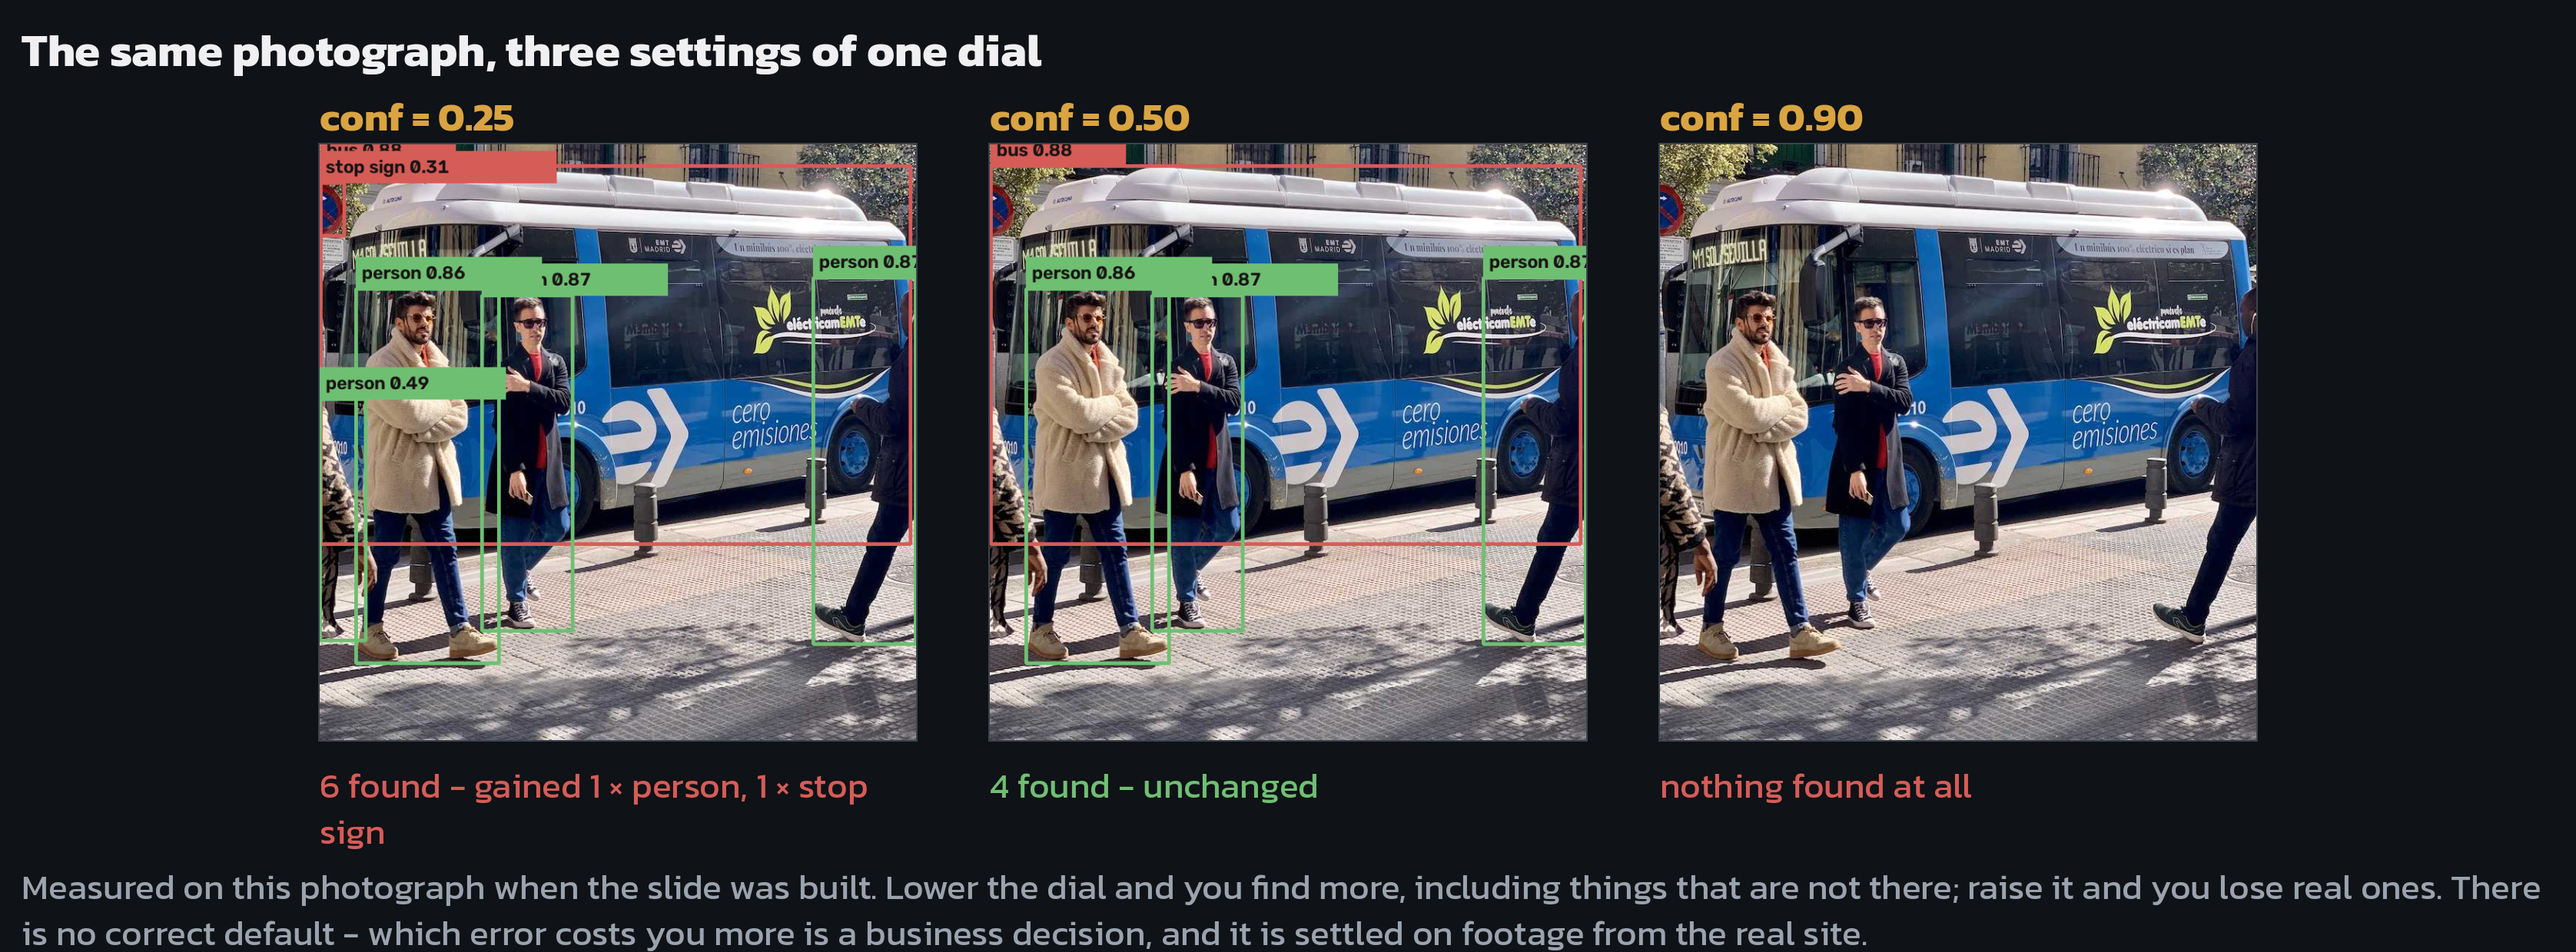
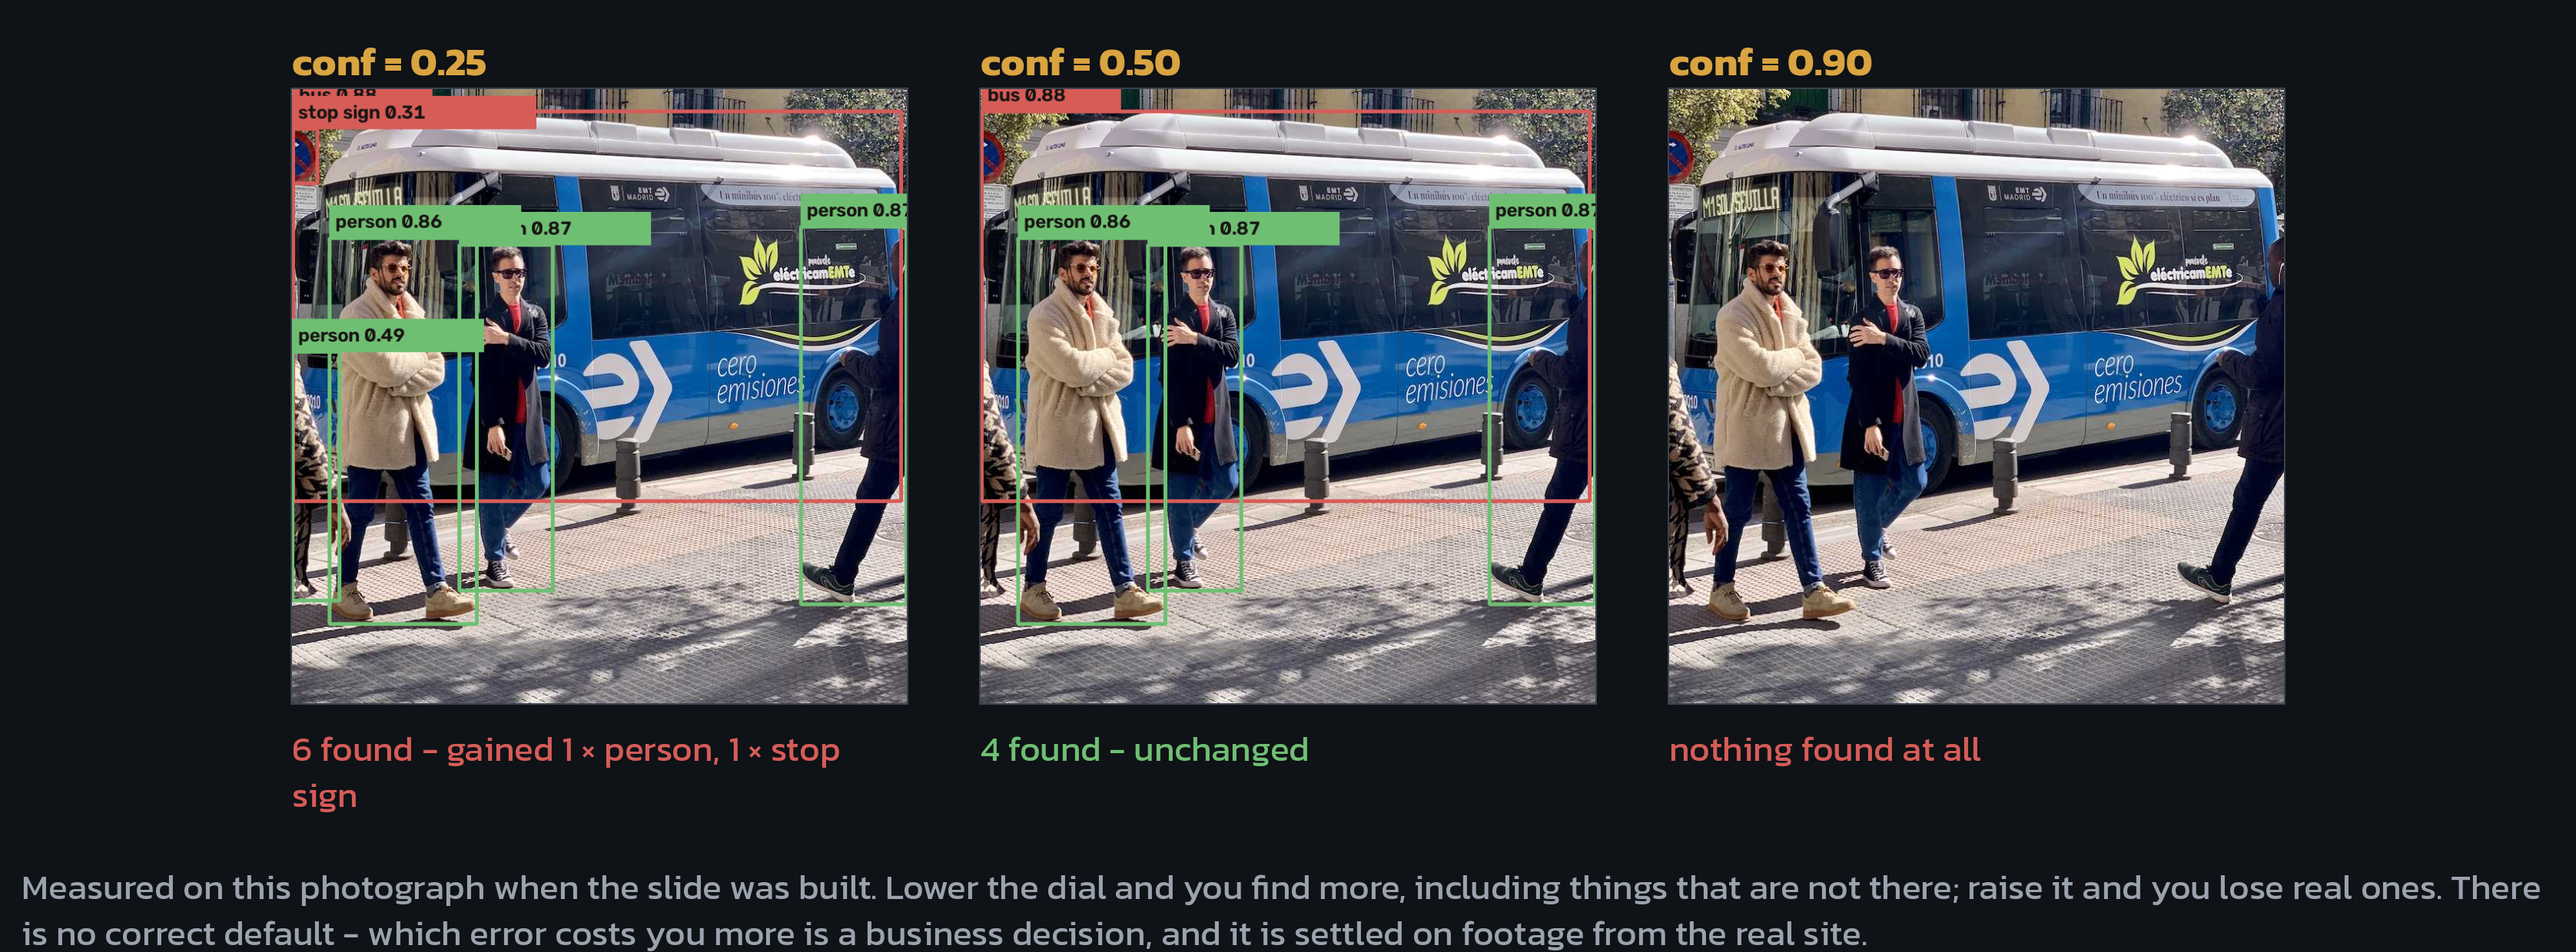
slide_assets: drop the figure headlines that doubled the slide titles
Four of the chapter 5 figures carried their own headline, which landed
directly under the slide's title and subtitle and said the same thing
twice. Removing it gives the panels the vertical space back: the
confidence and input-size panels grow from 388 to 400, the break panels
from 334 to 360, and the source command gets the room to call out the
one word that changes.

Measurements are unchanged - re-rendered and re-verified.

Claude-Session: https://claude.ai/code/session_01L2BgT3gVYruUssRpoAW2J5

diff --git a/slide_assets/src/ch5_panels.py b/slide_assets/src/ch5_panels.py
@@ -286,10 +286,8 @@ def fig_dials(det):
                                          dict(Counter(names_of(r)))))
     base_cnt = results[1][3]
 
-    d.text((14 * S, 10 * S), "The same photograph, three settings of one dial",
-           font=f_h, fill=WHITE)
-
-    top, cell, gap = 62, 388, 48
+    # no headline here - the slide's own title and subtitle carry it
+    top, cell, gap = 26, 400, 48
     x0 = (W - 3 * cell - 2 * gap) // 2
     for i, (c, r, n, cnt) in enumerate(results):
         x = x0 + i * (cell + gap)
@@ -334,27 +332,27 @@ def fig_source():
     f_n = font("Kanit", 23)
 
     PAD = 14
-    d.text((PAD * S, 10 * S), "One command. You change one word of it.",
-           font=f_t, fill=WHITE)
 
     # the command, with source= picked out
-    cy = 66
-    panel(d, PAD, cy, W - 2 * PAD, 86, ec=GOLD, fc=(26, 21, 18))
+    cy = 18
+    panel(d, PAD, cy, W - 2 * PAD, 118, ec=GOLD, fc=(26, 21, 18))
     parts = [("yolo detect predict  model=yolo11n.pt  ", WHITE),
              ("source=part.jpg", GOLD),
              ("  conf=0.5  save=True", WHITE)]
-    tx = PAD + 26
+    tx = PAD + 30
     for txt, col in parts:
-        d.text((tx * S, (cy + 28) * S), txt, font=f_c, fill=col)
+        d.text((tx * S, (cy + 38) * S), txt, font=f_c, fill=col)
         tx += d.textlength(txt, font=f_c) / S
     # underline the part that changes
-    ux0 = PAD + 26 + d.textlength(parts[0][0], font=f_c) / S
+    ux0 = PAD + 30 + d.textlength(parts[0][0], font=f_c) / S
     ux1 = ux0 + d.textlength(parts[1][0], font=f_c) / S
-    d.line([ux0 * S, (cy + 66) * S, ux1 * S, (cy + 66) * S], fill=GOLD, width=4)
+    d.line([ux0 * S, (cy + 80) * S, ux1 * S, (cy + 80) * S], fill=GOLD, width=5)
+    d.text((ux0 * S, (cy + 88) * S), "this is the only word that changes",
+           font=f_s, fill=GOLD)
 
     gap = 14
     cw = (W - 2 * PAD - 4 * gap) // 5
-    top, chh = 208, 244
+    top, chh = 196, 252
     for i, (title, code, note) in enumerate(SOURCES):
         x = PAD + i * (cw + gap)
         panel(d, x, top, cw, chh)
@@ -401,11 +399,7 @@ def fig_size(det):
         out.append((sz, r, len(r.boxes), cnt))
         print("  imgsz=%3d -> %d  %s" % (sz, len(r.boxes), dict(cnt)))
 
-    d.text((14 * S, 10 * S),
-           "The same photograph, fed to the same model at three input sizes",
-           font=f_h, fill=WHITE)
-
-    top, cell, gap = 62, 388, 48
+    top, cell, gap = 26, 400, 48
     x0 = (W - 3 * cell - 2 * gap) // 2
     base_cnt = out[0][3]
     for i, (sz, r, n, cnt) in enumerate(out):
@@ -471,11 +465,7 @@ def fig_break(det):
          "untouched photo, dial wound down"),
     ]
 
-    d.text((14 * S, 10 * S),
-           "Four ways to break it on purpose - all four run on the same photo",
-           font=f_h, fill=WHITE)
-
-    top, cell, gap = 58, 334, 30
+    top, cell, gap = 24, 360, 30
     x0 = (W - 4 * cell - 3 * gap) // 2
     for i, (title, frame, c, note) in enumerate(cases):
         x = x0 + i * (cell + gap)
